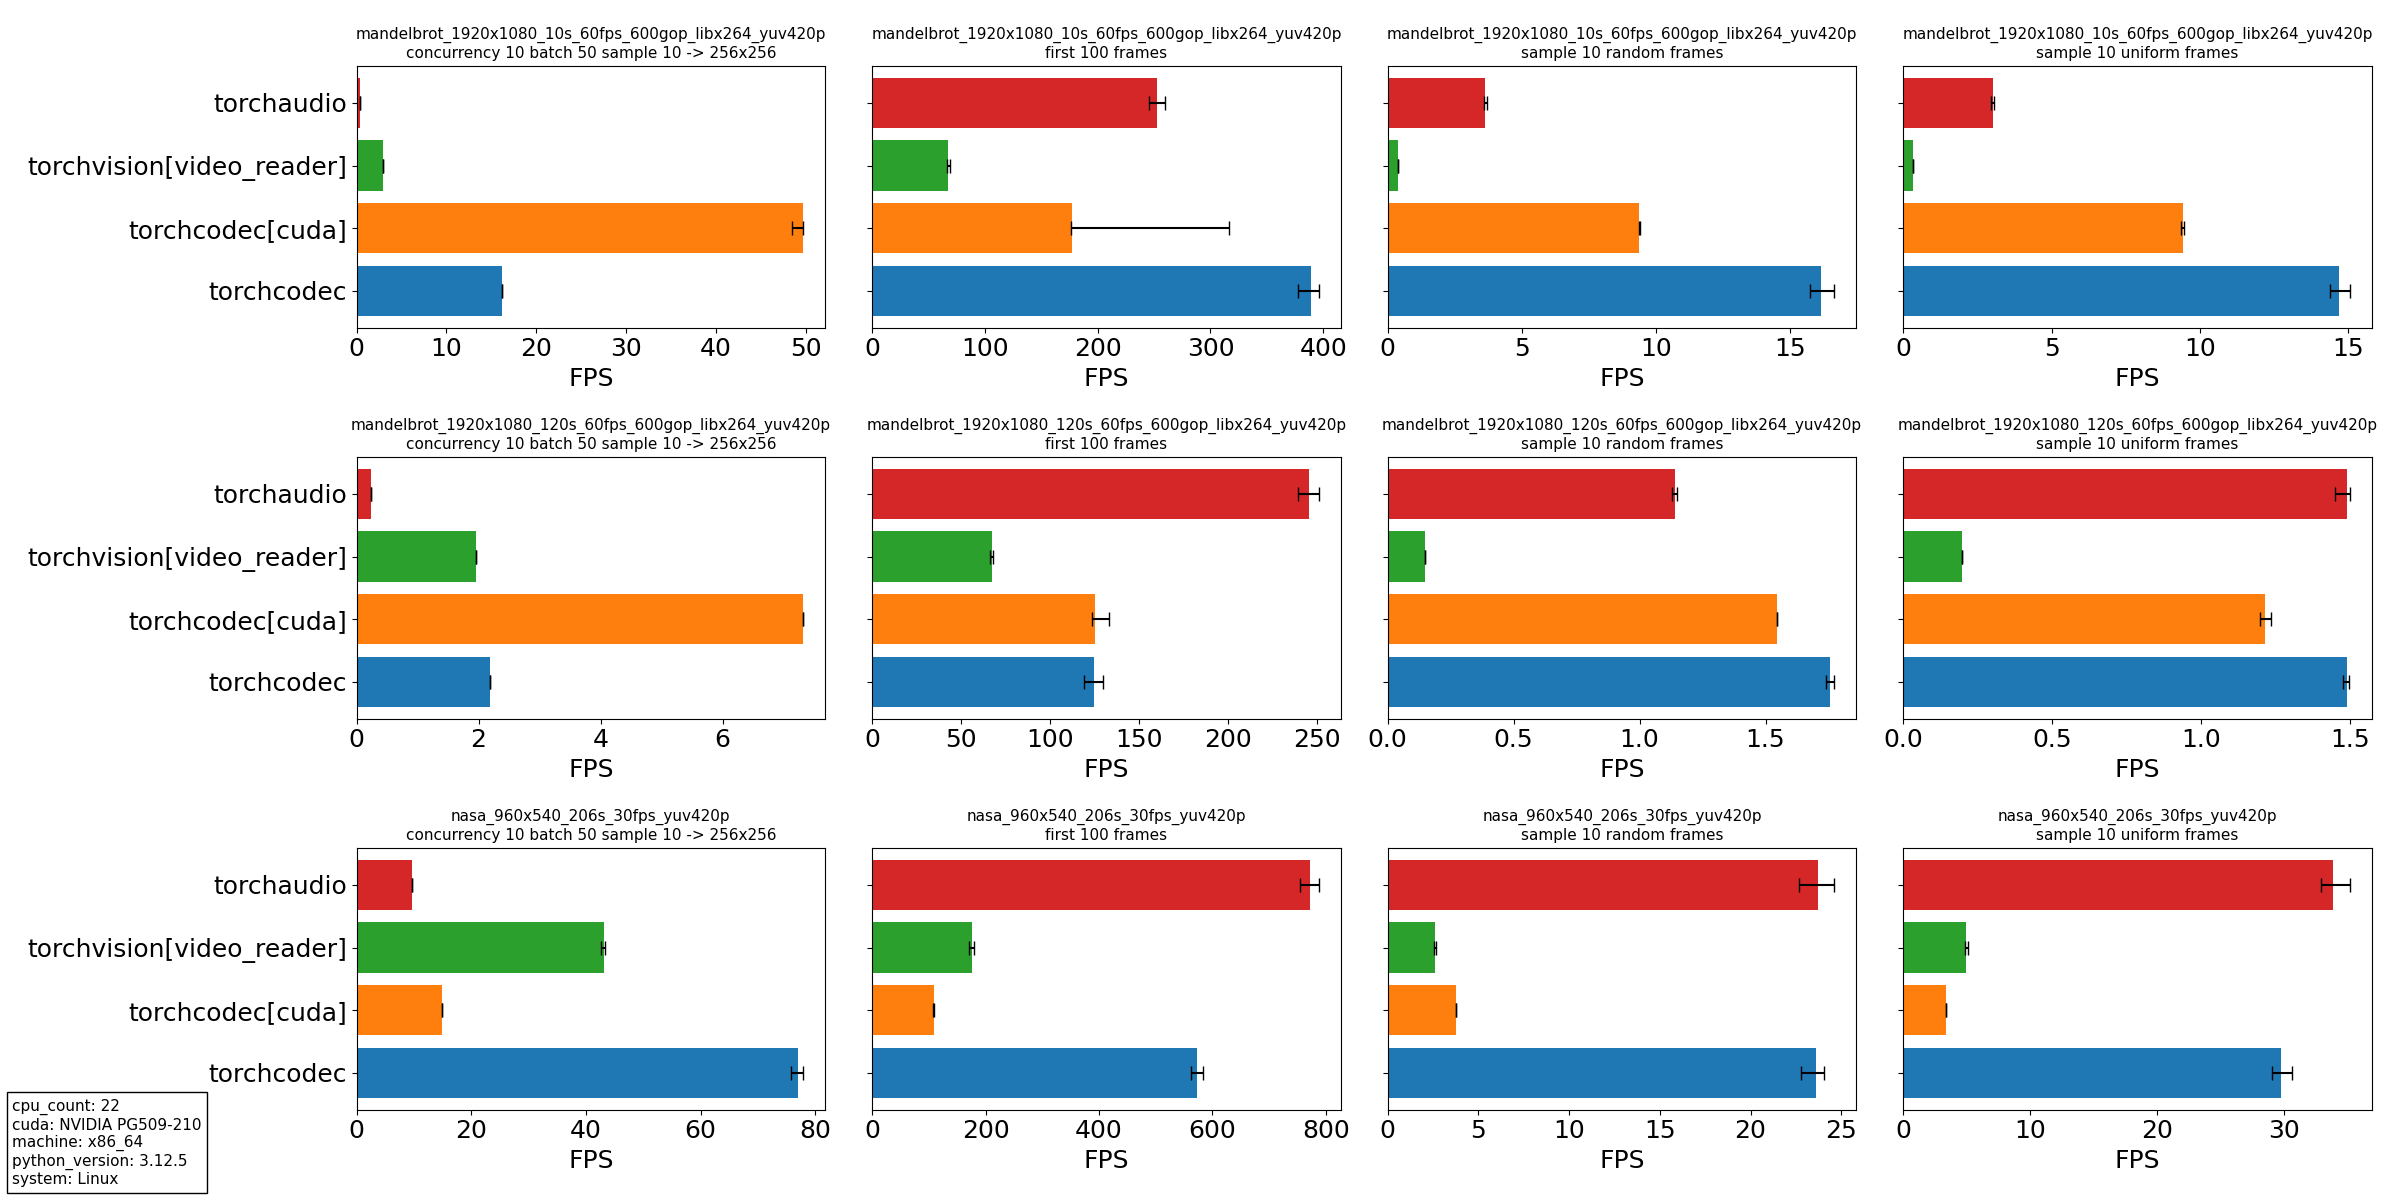
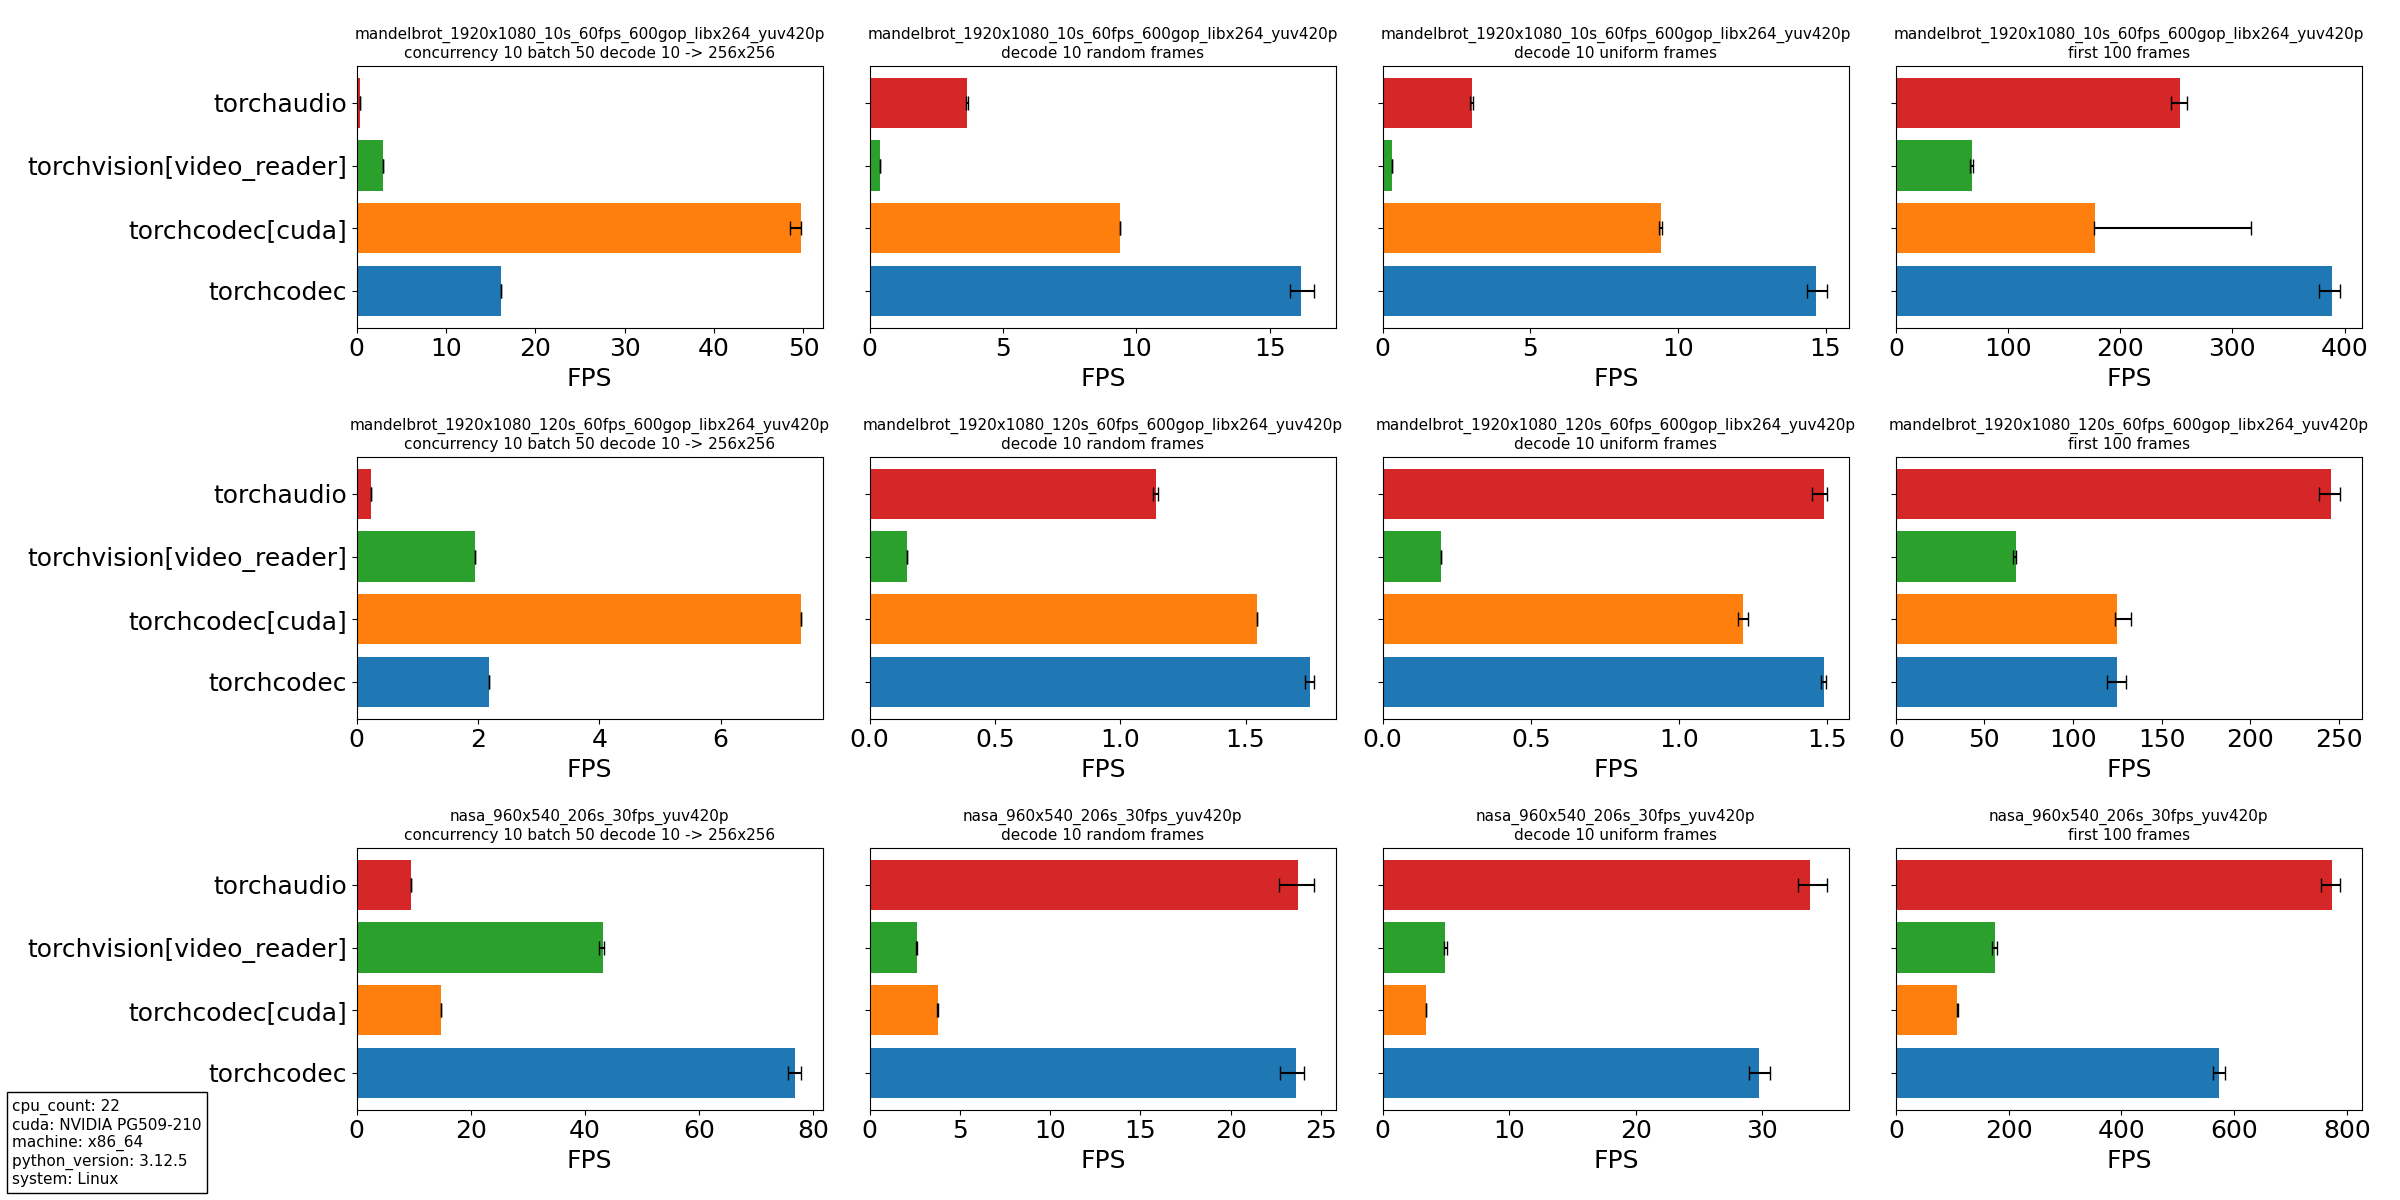
Rename sample to decode

diff --git a/benchmarks/decoders/benchmark_decoders_library.py b/benchmarks/decoders/benchmark_decoders_library.py
@@ -35,27 +35,27 @@ class AbstractDecoder:
         pass
 
     @abc.abstractmethod
-    def sample_frames(self, video_file, pts_list):
+    def decode_frames(self, video_file, pts_list):
         pass
 
-    def sample_frames_description(self, num_frames: int, kind: str) -> str:
-        return f"sample {num_frames} {kind} frames"
+    def decode_frames_description(self, num_frames: int, kind: str) -> str:
+        return f"decode {num_frames} {kind} frames"
 
     @abc.abstractmethod
-    def get_first_n_frames(self, video_file, n):
+    def decode_first_n_frames(self, video_file, n):
         pass
 
-    def get_first_n_frames_description(self, n) -> str:
+    def decode_first_n_frames_description(self, n) -> str:
         return f"first {n} frames"
 
     @abc.abstractmethod
-    def sample_and_resize(self, video_file, pts_list, height, width, device):
+    def decode_and_resize(self, video_file, pts_list, height, width, device):
         pass
 
-    def sample_and_resize_description(
+    def decode_and_resize_description(
         self, num_frames: int, height: int, width: int
     ) -> str:
-        return f"sample {num_frames} -> {height}x{width}"
+        return f"decode {num_frames} -> {height}x{width}"
 
 
 class DecordAccurate(AbstractDecoder):
@@ -65,7 +65,7 @@ class DecordAccurate(AbstractDecoder):
         self.decord = decord
         self.decord.bridge.set_bridge("torch")
 
-    def sample_frames(self, video_file, pts_list):
+    def decode_frames(self, video_file, pts_list):
         decord_vr = self.decord.VideoReader(video_file, ctx=self.decord.cpu())
         frames = []
         fps = decord_vr.get_avg_fps()
@@ -75,7 +75,7 @@ class DecordAccurate(AbstractDecoder):
             frames.append(frame)
         return frames
 
-    def get_first_n_frames(self, video_file, n):
+    def decode_first_n_frames(self, video_file, n):
         decord_vr = self.decord.VideoReader(video_file, ctx=self.decord.cpu())
         frames = []
         for _ in range(n):
@@ -91,13 +91,13 @@ class DecordAccurateBatch(AbstractDecoder):
         self.decord = decord
         self.decord.bridge.set_bridge("torch")
 
-    def sample_frames(self, video_file, pts_list):
+    def decode_frames(self, video_file, pts_list):
         decord_vr = self.decord.VideoReader(video_file, ctx=self.decord.cpu())
         average_fps = decord_vr.get_avg_fps()
         indices_list = [int(pts * average_fps) for pts in pts_list]
         return decord_vr.get_batch(indices_list)
 
-    def get_first_n_frames(self, video_file, n):
+    def decode_first_n_frames(self, video_file, n):
         decord_vr = self.decord.VideoReader(video_file, ctx=self.decord.cpu())
         indices_list = list(range(n))
         return decord_vr.get_batch(indices_list)
@@ -113,7 +113,7 @@ class TorchVision(AbstractDecoder):
         self.torchvision = torchvision
         self.transforms_v2 = transforms_v2
 
-    def sample_frames(self, video_file, pts_list):
+    def decode_frames(self, video_file, pts_list):
         self.torchvision.set_video_backend(self._backend)
         reader = self.torchvision.io.VideoReader(video_file, "video", num_threads=0)
         frames = []
@@ -123,7 +123,7 @@ class TorchVision(AbstractDecoder):
             frames.append(frame["data"].permute(1, 2, 0))
         return frames
 
-    def get_first_n_frames(self, video_file, n):
+    def decode_first_n_frames(self, video_file, n):
         self.torchvision.set_video_backend(self._backend)
         reader = self.torchvision.io.VideoReader(video_file, "video", num_threads=0)
         frames = []
@@ -132,7 +132,7 @@ class TorchVision(AbstractDecoder):
             frames.append(frame["data"].permute(1, 2, 0))
         return frames
 
-    def sample_and_resize(self, video_file, pts_list, height, width, device):
+    def decode_and_resize(self, video_file, pts_list, height, width, device):
         self.torchvision.set_video_backend(self._backend)
         reader = self.torchvision.io.VideoReader(video_file, "video", num_threads=1)
         frames = []
@@ -153,7 +153,7 @@ class TorchCodecCore(AbstractDecoder):
         self._color_conversion_library = color_conversion_library
         self._device = device
 
-    def sample_frames(self, video_file, pts_list):
+    def decode_frames(self, video_file, pts_list):
         decoder = create_from_file(video_file)
         scan_all_streams_to_update_metadata(decoder)
         _add_video_stream(
@@ -169,7 +169,7 @@ class TorchCodecCore(AbstractDecoder):
         )
         return frames
 
-    def get_first_n_frames(self, video_file, n):
+    def decode_first_n_frames(self, video_file, n):
         decoder = create_from_file(video_file)
         _add_video_stream(
             decoder,
@@ -196,7 +196,7 @@ class TorchCodecCoreNonBatch(AbstractDecoder):
 
         self.transforms_v2 = transforms_v2
 
-    def sample_frames(self, video_file, pts_list):
+    def decode_frames(self, video_file, pts_list):
         decoder = create_from_file(video_file)
         num_threads = int(self._num_threads) if self._num_threads else 0
         _add_video_stream(
@@ -214,7 +214,7 @@ class TorchCodecCoreNonBatch(AbstractDecoder):
 
         return frames
 
-    def get_first_n_frames(self, video_file, n):
+    def decode_first_n_frames(self, video_file, n):
         num_threads = int(self._num_threads) if self._num_threads else 0
         decoder = create_from_file(video_file)
         _add_video_stream(
@@ -231,7 +231,7 @@ class TorchCodecCoreNonBatch(AbstractDecoder):
 
         return frames
 
-    def sample_and_resize(self, video_file, pts_list, height, width, device):
+    def decode_and_resize(self, video_file, pts_list, height, width, device):
         num_threads = int(self._num_threads) if self._num_threads else 1
         decoder = create_from_file(video_file)
         _add_video_stream(
@@ -262,7 +262,7 @@ class TorchCodecCoreBatch(AbstractDecoder):
         self._color_conversion_library = color_conversion_library
         self._device = device
 
-    def sample_frames(self, video_file, pts_list):
+    def decode_frames(self, video_file, pts_list):
         decoder = create_from_file(video_file)
         scan_all_streams_to_update_metadata(decoder)
         _add_video_stream(
@@ -278,7 +278,7 @@ class TorchCodecCoreBatch(AbstractDecoder):
         )
         return frames
 
-    def get_first_n_frames(self, video_file, n):
+    def decode_first_n_frames(self, video_file, n):
         decoder = create_from_file(video_file)
         scan_all_streams_to_update_metadata(decoder)
         _add_video_stream(
@@ -305,7 +305,7 @@ class TorchCodecPublic(AbstractDecoder):
 
         self.transforms_v2 = transforms_v2
 
-    def sample_frames(self, video_file, pts_list):
+    def decode_frames(self, video_file, pts_list):
         num_ffmpeg_threads = (
             int(self._num_ffmpeg_threads) if self._num_ffmpeg_threads else 0
         )
@@ -314,7 +314,7 @@ class TorchCodecPublic(AbstractDecoder):
         )
         return decoder.get_frames_played_at(pts_list)
 
-    def get_first_n_frames(self, video_file, n):
+    def decode_first_n_frames(self, video_file, n):
         num_ffmpeg_threads = (
             int(self._num_ffmpeg_threads) if self._num_ffmpeg_threads else 0
         )
@@ -330,7 +330,7 @@ class TorchCodecPublic(AbstractDecoder):
                 break
         return frames
 
-    def sample_and_resize(self, video_file, pts_list, height, width, device):
+    def decode_and_resize(self, video_file, pts_list, height, width, device):
         num_ffmpeg_threads = (
             int(self._num_ffmpeg_threads) if self._num_ffmpeg_threads else 1
         )
@@ -357,7 +357,7 @@ class TorchCodecCoreCompiled(AbstractDecoder):
     def __init__(self):
         pass
 
-    def sample_frames(self, video_file, pts_list):
+    def decode_frames(self, video_file, pts_list):
         decoder = create_from_file(video_file)
         _add_video_stream(decoder)
         frames = []
@@ -366,7 +366,7 @@ class TorchCodecCoreCompiled(AbstractDecoder):
             frames.append(frame)
         return frames
 
-    def get_first_n_frames(self, video_file, n):
+    def decode_first_n_frames(self, video_file, n):
         decoder = create_from_file(video_file)
         _add_video_stream(decoder)
         frames = []
@@ -386,7 +386,7 @@ class TorchAudioDecoder(AbstractDecoder):
 
         self.transforms_v2 = transforms_v2
 
-    def sample_frames(self, video_file, pts_list):
+    def decode_frames(self, video_file, pts_list):
         stream_reader = self.torchaudio.io.StreamReader(src=video_file)
         stream_reader.add_basic_video_stream(
             frames_per_chunk=1, decoder_option={"threads": "0"}
@@ -399,7 +399,7 @@ class TorchAudioDecoder(AbstractDecoder):
             frames.append(clip[0][0])
         return frames
 
-    def get_first_n_frames(self, video_file, n):
+    def decode_first_n_frames(self, video_file, n):
         stream_reader = self.torchaudio.io.StreamReader(src=video_file)
         stream_reader.add_basic_video_stream(
             frames_per_chunk=1, decoder_option={"threads": "0"}
@@ -414,7 +414,7 @@ class TorchAudioDecoder(AbstractDecoder):
 
         return frames
 
-    def sample_and_resize(self, video_file, pts_list, height, width, device):
+    def decode_and_resize(self, video_file, pts_list, height, width, device):
         stream_reader = self.torchaudio.io.StreamReader(src=video_file)
         stream_reader.add_basic_video_stream(
             frames_per_chunk=1, decoder_option={"threads": "1"}
@@ -679,14 +679,14 @@ def run_benchmarks(
                 description = (
                     f"concurrency {bp.num_threads}"
                     f"batch {bp.batch_size}"
-                    + decoder.sample_and_resize_description(
+                    + decoder.decode_and_resize_description(
                         num_samples,
                         dataloader_parameters.resize_height,
                         dataloader_parameters.resize_width,
                     )
                 )
                 dataloader_result = benchmark.Timer(
-                    stmt="run_batch_using_threads(decoder.sample_and_resize, video_file, pts_list, height, width, device, batch_parameters=batch_parameters)",
+                    stmt="run_batch_using_threads(decoder.decode_and_resize, video_file, pts_list, height, width, device, batch_parameters=batch_parameters)",
                     globals={
                         "video_file": str(video_file_path),
                         "pts_list": uniform_pts_list,
@@ -726,7 +726,7 @@ def run_benchmarks(
                         f"video={video_file_path}, decoder={decoder_name}, pts_list={pts_list}"
                     )
                 seeked_result = benchmark.Timer(
-                    stmt="decoder.sample_frames(video_file, pts_list)",
+                    stmt="decoder.decode_frames(video_file, pts_list)",
                     globals={
                         "video_file": str(video_file_path),
                         "pts_list": pts_list,
@@ -734,10 +734,10 @@ def run_benchmarks(
                     },
                     label=f"video={video_file_path} {metadata_label}",
                     sub_label=decoder_name,
-                    description=decoder.sample_frames_description(num_samples, kind),
+                    description=decoder.decode_frames_description(num_samples, kind),
                 )
                 print(
-                    f"{decoder_name} {decoder.sample_frames_description(num_samples, kind)}"
+                    f"{decoder_name} {decoder.decode_frames_description(num_samples, kind)}"
                 )
                 results.append(
                     seeked_result.blocked_autorange(min_run_time=min_runtime_seconds)
@@ -748,13 +748,13 @@ def run_benchmarks(
                         decoder_name,
                         video_file_path,
                         num_samples,
-                        decoder.sample_frames_description(num_samples, kind),
+                        decoder.decode_frames_description(num_samples, kind),
                     )
                 )
 
                 if batch_parameters:
                     seeked_result = benchmark.Timer(
-                        stmt="run_batch_using_threads(decoder.sample_frames, video_file, pts_list, batch_parameters=batch_parameters)",
+                        stmt="run_batch_using_threads(decoder.decode_frames, video_file, pts_list, batch_parameters=batch_parameters)",
                         globals={
                             "video_file": str(video_file_path),
                             "pts_list": pts_list,
@@ -764,12 +764,12 @@ def run_benchmarks(
                         },
                         label=f"video={video_file_path} {metadata_label}",
                         sub_label=decoder_name,
-                        description=decoder.sample_frames_description(
+                        description=decoder.decode_frames_description(
                             num_samples, kind
                         ),
                     )
                     print(
-                        f"{decoder_name} batch {decoder.sample_frames_description(num_samples, kind)}"
+                        f"{decoder_name} batch {decoder.decode_frames_description(num_samples, kind)}"
                     )
                     results.append(
                         seeked_result.blocked_autorange(
@@ -782,13 +782,13 @@ def run_benchmarks(
                             decoder_name,
                             video_file_path,
                             num_samples * batch_parameters.batch_size,
-                            decoder.sample_frames_description(num_samples, kind),
+                            decoder.decode_frames_description(num_samples, kind),
                         )
                     )
 
             for num_frames in num_sequential_frames_from_start:
                 consecutive_frames_result = benchmark.Timer(
-                    stmt="decoder.get_first_n_frames(video_file, n)",
+                    stmt="decoder.decode_first_n_frames(video_file, n)",
                     globals={
                         "video_file": str(video_file_path),
                         "n": num_frames,
@@ -796,10 +796,10 @@ def run_benchmarks(
                     },
                     label=f"video={video_file_path} {metadata_label}",
                     sub_label=decoder_name,
-                    description=decoder.get_first_n_frames_description(num_frames),
+                    description=decoder.decode_first_n_frames_description(num_frames),
                 )
                 print(
-                    f"{decoder_name} {decoder.get_first_n_frames_description(num_frames)}"
+                    f"{decoder_name} {decoder.decode_first_n_frames_description(num_frames)}"
                 )
                 results.append(
                     consecutive_frames_result.blocked_autorange(
@@ -812,13 +812,13 @@ def run_benchmarks(
                         decoder_name,
                         video_file_path,
                         num_frames,
-                        decoder.get_first_n_frames_description(num_frames),
+                        decoder.decode_first_n_frames_description(num_frames),
                     )
                 )
 
                 if batch_parameters:
                     consecutive_frames_result = benchmark.Timer(
-                        stmt="run_batch_using_threads(decoder.get_first_n_frames, video_file, n, batch_parameters=batch_parameters)",
+                        stmt="run_batch_using_threads(decoder.decode_first_n_frames, video_file, n, batch_parameters=batch_parameters)",
                         globals={
                             "video_file": str(video_file_path),
                             "n": num_frames,
@@ -828,10 +828,12 @@ def run_benchmarks(
                         },
                         label=f"video={video_file_path} {metadata_label}",
                         sub_label=decoder_name,
-                        description=decoder.get_first_n_frames_description(num_frames),
+                        description=decoder.decode_first_n_frames_description(
+                            num_frames
+                        ),
                     )
                     print(
-                        f"{decoder_name} batch {decoder.get_first_n_frames_description(num_frames)}"
+                        f"{decoder_name} batch {decoder.decode_first_n_frames_description(num_frames)}"
                     )
                     results.append(
                         consecutive_frames_result.blocked_autorange(
@@ -844,7 +846,7 @@ def run_benchmarks(
                             decoder_name,
                             video_file_path,
                             num_frames * batch_parameters.batch_size,
-                            decoder.get_first_n_frames_description(num_frames),
+                            decoder.decode_first_n_frames_description(num_frames),
                         )
                     )
 
